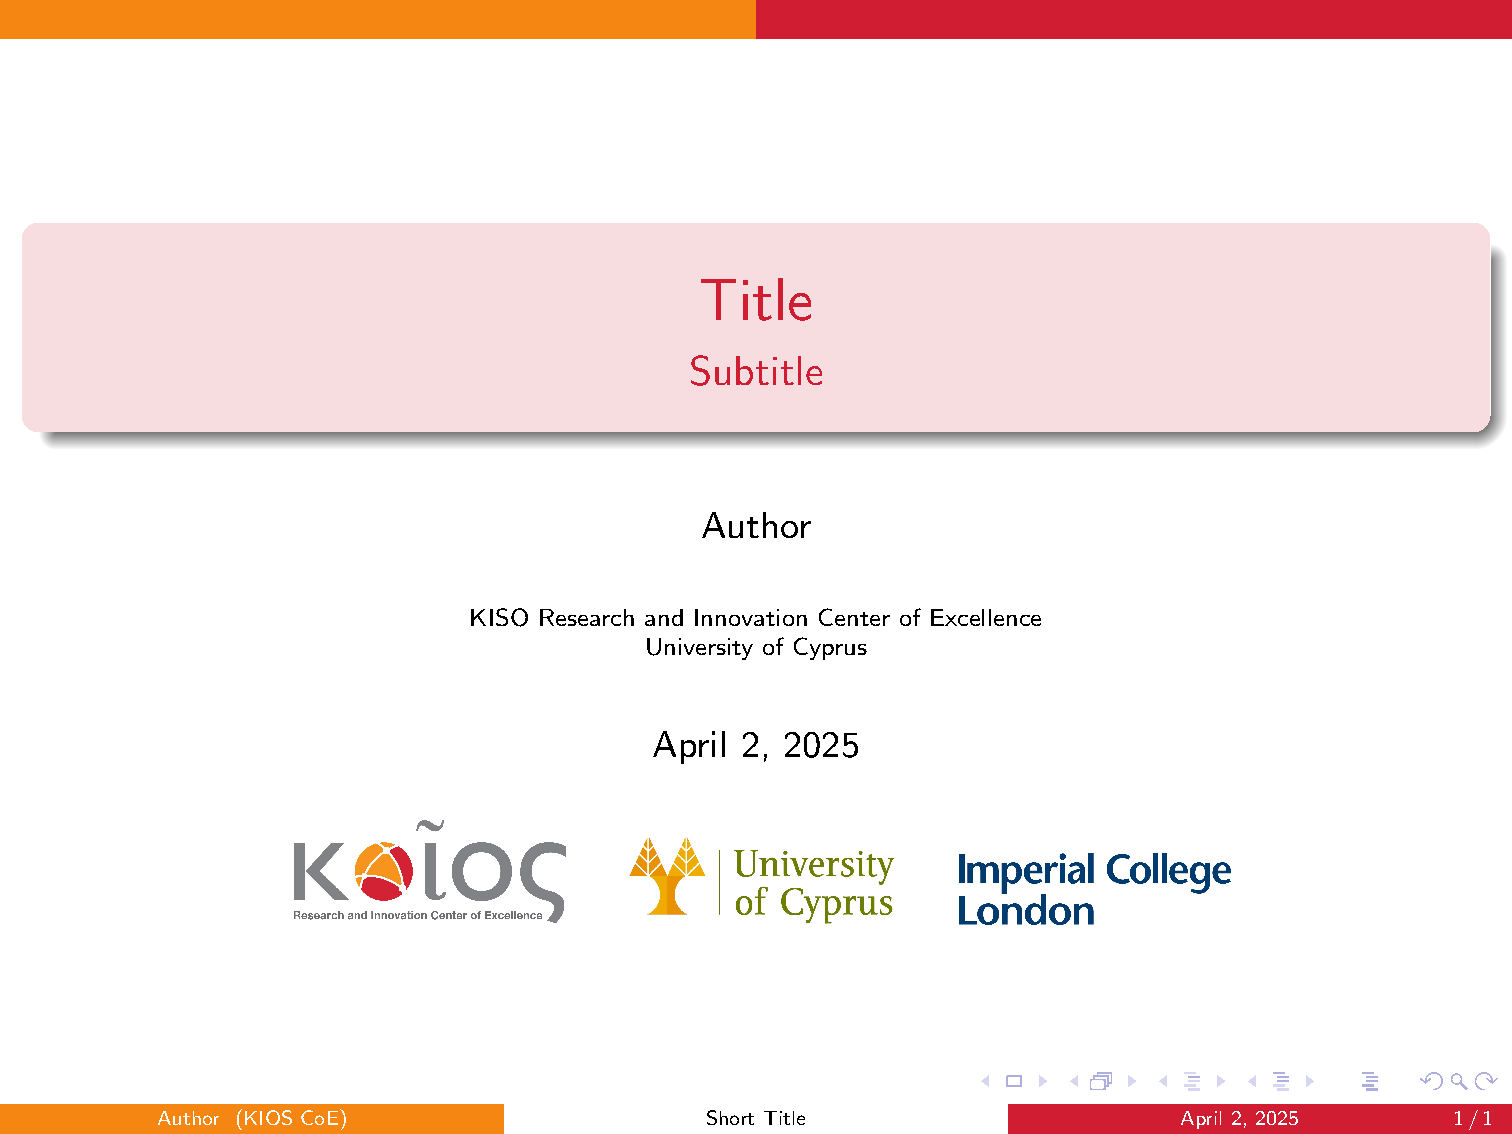
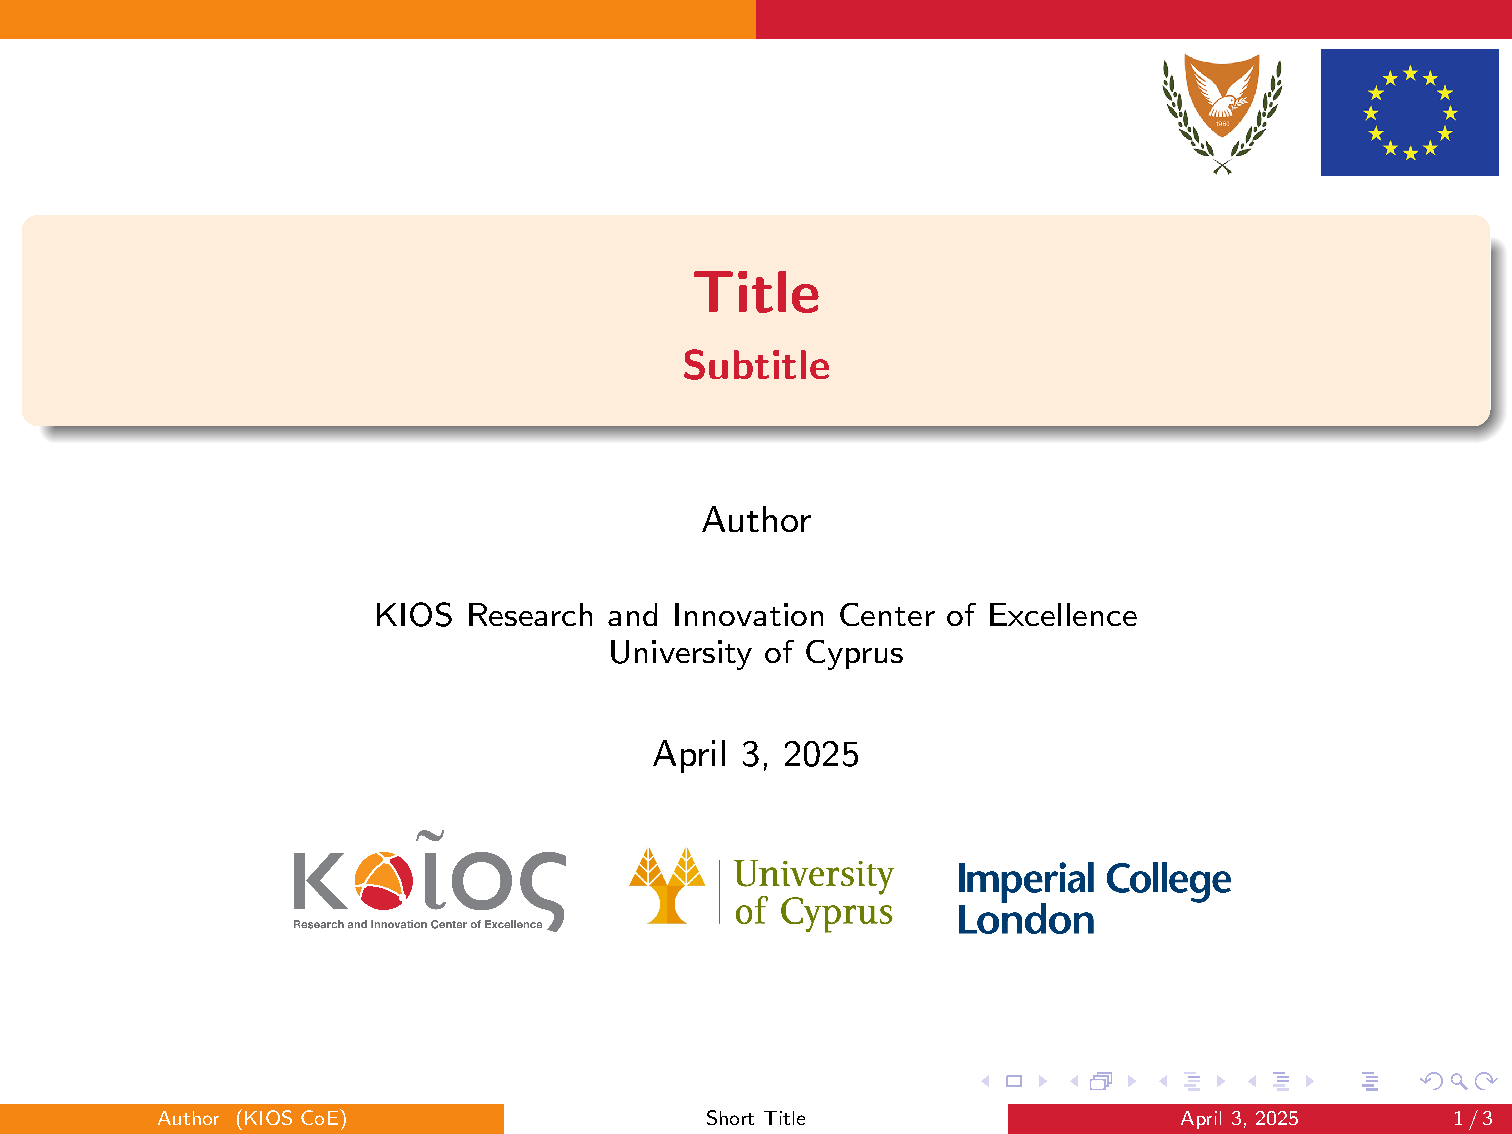
update

diff --git a/main.tex b/main.tex
@@ -1,6 +1,5 @@
 \documentclass[9pt]{beamer}
 \usetheme{CambridgeUS}
-\usefonttheme{default}
 
 \usepackage{hyperref}
 \usepackage{pifont}
@@ -30,7 +29,7 @@
 
 % === Slide Elements ===
 \setbeamercolor{frametitle}{fg=kiosred, bg=white}       % Frame title
-\setbeamercolor{block title}{fg=kiosred, bg=kiosred}      % Block header
+\setbeamercolor{block title}{fg=white, bg=kiosred}      % Block header
 \setbeamercolor{block body}{bg=ucyyellow!10!white}                 % Block background
 \setbeamercolor{background canvas}{bg=white}
 \setbeamerfont{frametitle}{size=\Large, series=\bfseries}
@@ -40,13 +39,14 @@
 \setbeamercolor{normal text}{fg=black}                          % Default text
 \setbeamercolor{alerted text}{fg=kiosred}                  %\% \alert{} color
 
+
 % Title page
 \title[Short Title]{Title}
 \subtitle{Subtitle}
 
 \author[Author]{Author}
 
-\institute[KIOS CoE]{KISO Research and Innovation Center of Excellence \\
+\institute[KIOS CoE]{KIOS Research and Innovation Center of Excellence \\
 University of Cyprus
 }
 
@@ -97,7 +97,7 @@ University of Cyprus
 \end{block}
 
 \begin{itemize}
-    \item Item 1 (orange bullet)
+    \item Item 1
     \item \alert{Alerted Item} (red text)
 \end{itemize}
 \end{frame}
